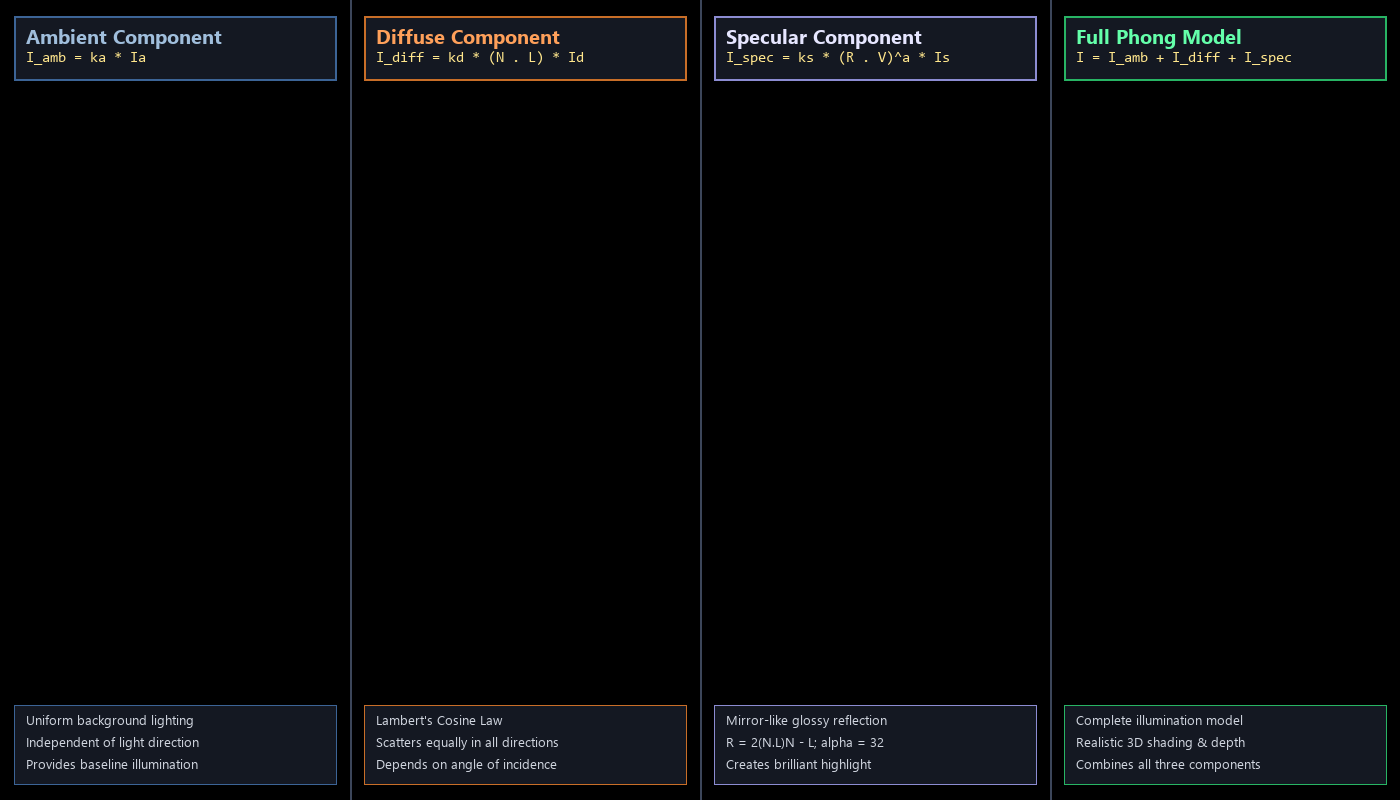
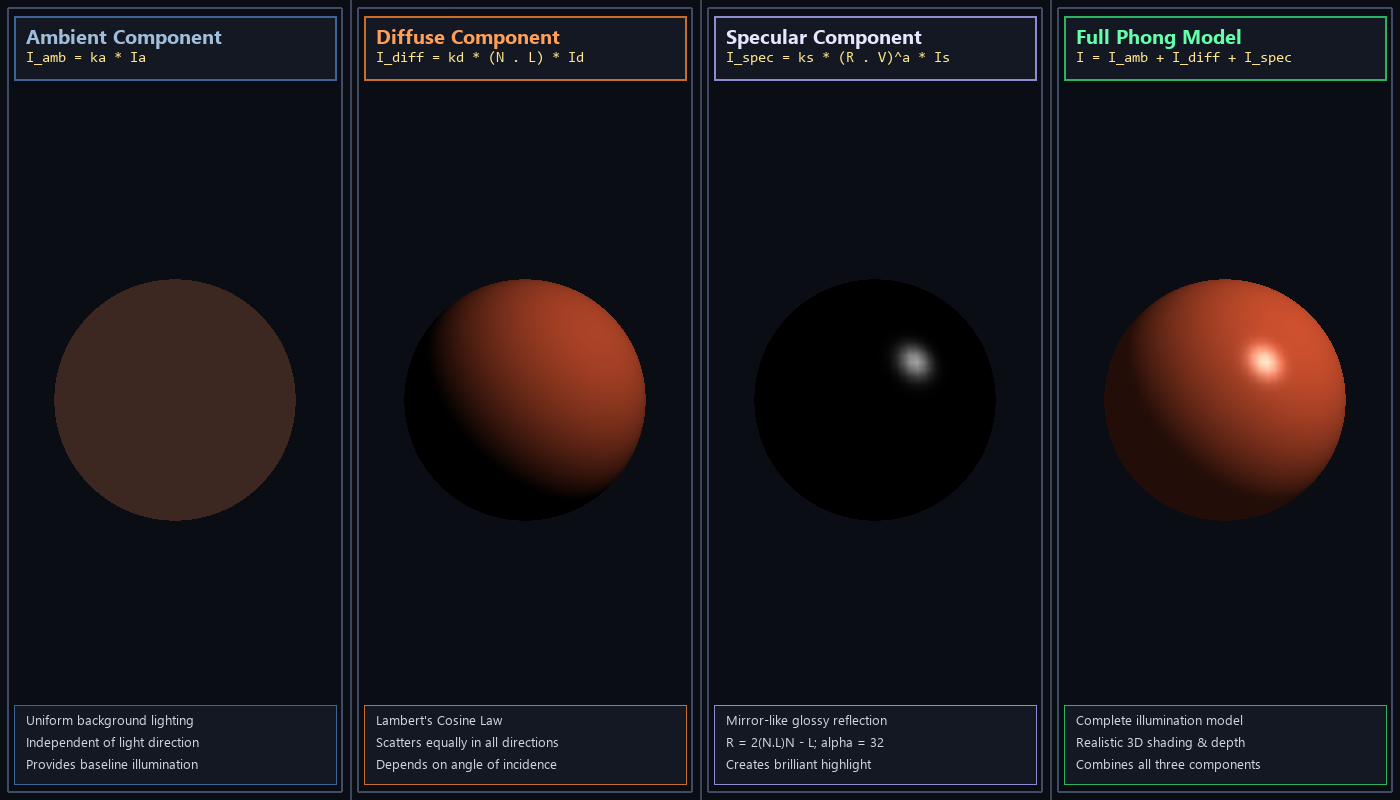
Fix framebuffer capture bug in Experiments 6-10 to capture full 3D graphics output

diff --git a/experiments/Experiment_8/exp8.py b/experiments/Experiment_8/exp8.py
@@ -91,6 +91,8 @@ def create_shader_program():
 
 def add_labels_and_save(output_path):
     """Capture the rendered frame and overlay informative pipeline documentation."""
+    glReadBuffer(GL_BACK)
+    glFinish()
     glPixelStorei(GL_PACK_ALIGNMENT, 1)
     data = glReadPixels(0, 0, WINDOW_WIDTH, WINDOW_HEIGHT, GL_RGB, GL_UNSIGNED_BYTE)
     image = Image.frombytes("RGB", (WINDOW_WIDTH, WINDOW_HEIGHT), data)
@@ -241,10 +243,9 @@ def main():
     # Capture first frame with slight angle for presentation
     initial_angle = 0.35
     render(initial_angle, 1.2)
-    glfw.swap_buffers(window)
-
     output_path = os.path.join(os.path.dirname(__file__), "image.png")
     add_labels_and_save(output_path)
+    glfw.swap_buffers(window)
 
     if headless:
         glDeleteVertexArrays(1, [VAO])

diff --git a/experiments/Experiment_10/exp10.py b/experiments/Experiment_10/exp10.py
@@ -159,6 +159,8 @@ def render_scene(cur_angle):
 
 def add_labels_and_save(output_path):
     """Capture screen and overlay detailed viewing pipeline documentation."""
+    glReadBuffer(GL_BACK)
+    glFinish()
     glPixelStorei(GL_PACK_ALIGNMENT, 1)
     data = glReadPixels(0, 0, WINDOW_WIDTH, WINDOW_HEIGHT, GL_RGB, GL_UNSIGNED_BYTE)
     image = Image.frombytes("RGB", (WINDOW_WIDTH, WINDOW_HEIGHT), data)
@@ -230,10 +232,9 @@ def main():
 
     angle = 35.0
     render_scene(angle)
-    glfw.swap_buffers(window)
-
     output_path = os.path.join(os.path.dirname(__file__), "image.png")
     add_labels_and_save(output_path)
+    glfw.swap_buffers(window)
 
     if headless:
         glfw.destroy_window(window)

diff --git a/experiments/Experiment_6/exp6.py b/experiments/Experiment_6/exp6.py
@@ -120,6 +120,8 @@ def render_scene():
 
 def add_labels_and_save(output_path):
     """Capture framebuffer and add crisp informative annotations."""
+    glReadBuffer(GL_BACK)
+    glFinish()
     glPixelStorei(GL_PACK_ALIGNMENT, 1)
     data = glReadPixels(0, 0, WINDOW_WIDTH, WINDOW_HEIGHT, GL_RGB, GL_UNSIGNED_BYTE)
     image = Image.frombytes("RGB", (WINDOW_WIDTH, WINDOW_HEIGHT), data)
@@ -178,10 +180,9 @@ def main():
     glfw.make_context_current(window)
 
     render_scene()
-    glfw.swap_buffers(window)
-
     output_path = os.path.join(os.path.dirname(__file__), "image.png")
     add_labels_and_save(output_path)
+    glfw.swap_buffers(window)
 
     if headless:
         glfw.destroy_window(window)

diff --git a/experiments/Experiment_9/exp9.py b/experiments/Experiment_9/exp9.py
@@ -287,6 +287,8 @@ def update_physics(dt):
 
 def add_hud_and_save(output_path):
     """Capture 3D scene and render a rich game HUD overlay."""
+    glReadBuffer(GL_BACK)
+    glFinish()
     glPixelStorei(GL_PACK_ALIGNMENT, 1)
     data = glReadPixels(0, 0, WINDOW_WIDTH, WINDOW_HEIGHT, GL_RGB, GL_UNSIGNED_BYTE)
     image = Image.frombytes("RGB", (WINDOW_WIDTH, WINDOW_HEIGHT), data)
@@ -368,10 +370,9 @@ def main():
     # Set up initial display
     anim_time = 1.5
     draw_scene()
-    glfw.swap_buffers(window)
-
     output_path = os.path.join(os.path.dirname(__file__), "image.png")
     add_hud_and_save(output_path)
+    glfw.swap_buffers(window)
 
     if headless:
         glfw.destroy_window(window)

diff --git a/experiments/Experiment_7/exp7.py b/experiments/Experiment_7/exp7.py
@@ -186,6 +186,8 @@ def render_scene():
 
 def add_labels_and_save(output_path):
     """Overlay rich mathematical labels and information."""
+    glReadBuffer(GL_BACK)
+    glFinish()
     glPixelStorei(GL_PACK_ALIGNMENT, 1)
     data = glReadPixels(0, 0, WINDOW_WIDTH, WINDOW_HEIGHT, GL_RGB, GL_UNSIGNED_BYTE)
     image = Image.frombytes("RGB", (WINDOW_WIDTH, WINDOW_HEIGHT), data)
@@ -280,10 +282,9 @@ def main():
     glfw.make_context_current(window)
 
     render_scene()
-    glfw.swap_buffers(window)
-
     output_path = os.path.join(os.path.dirname(__file__), "image.png")
     add_labels_and_save(output_path)
+    glfw.swap_buffers(window)
 
     if headless:
         glfw.destroy_window(window)
